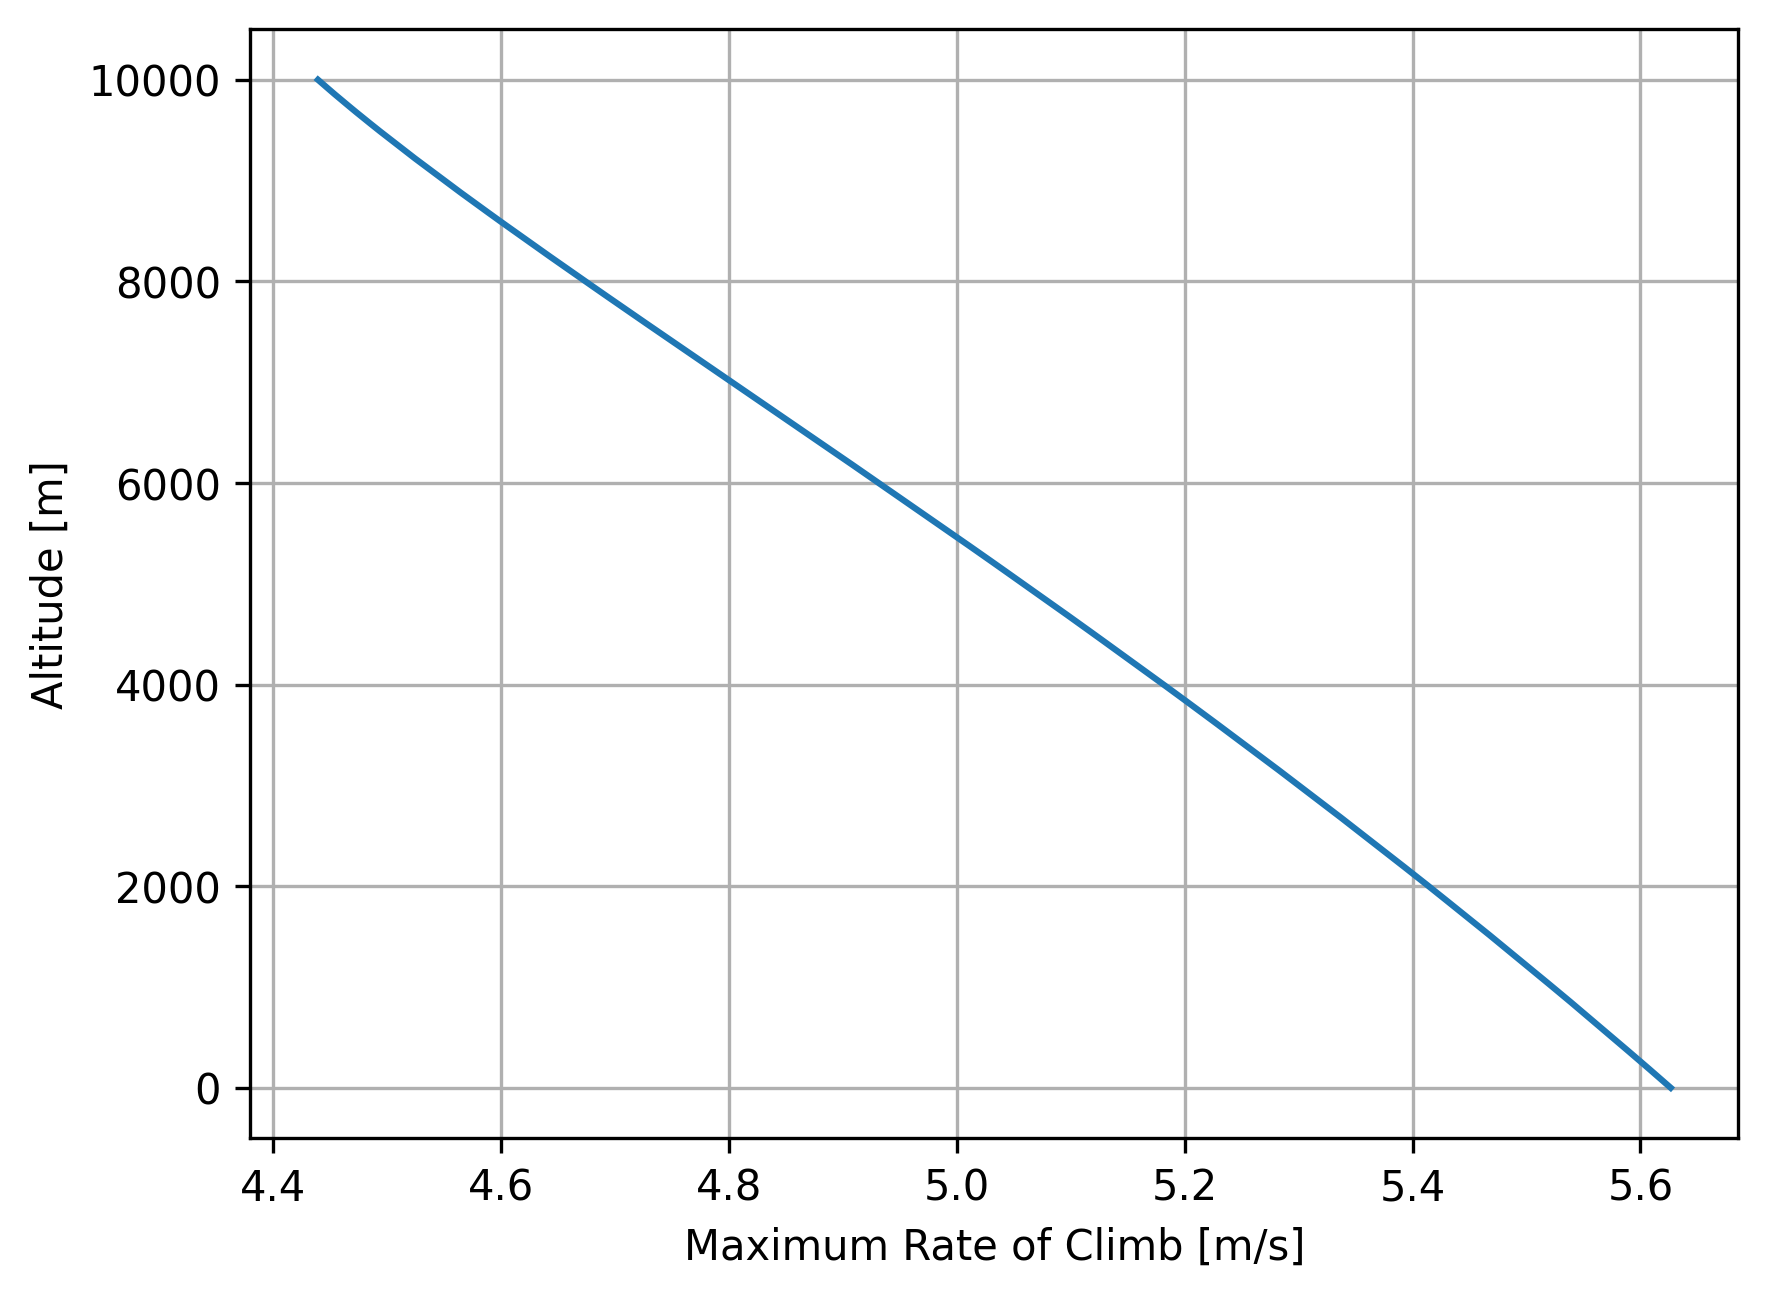
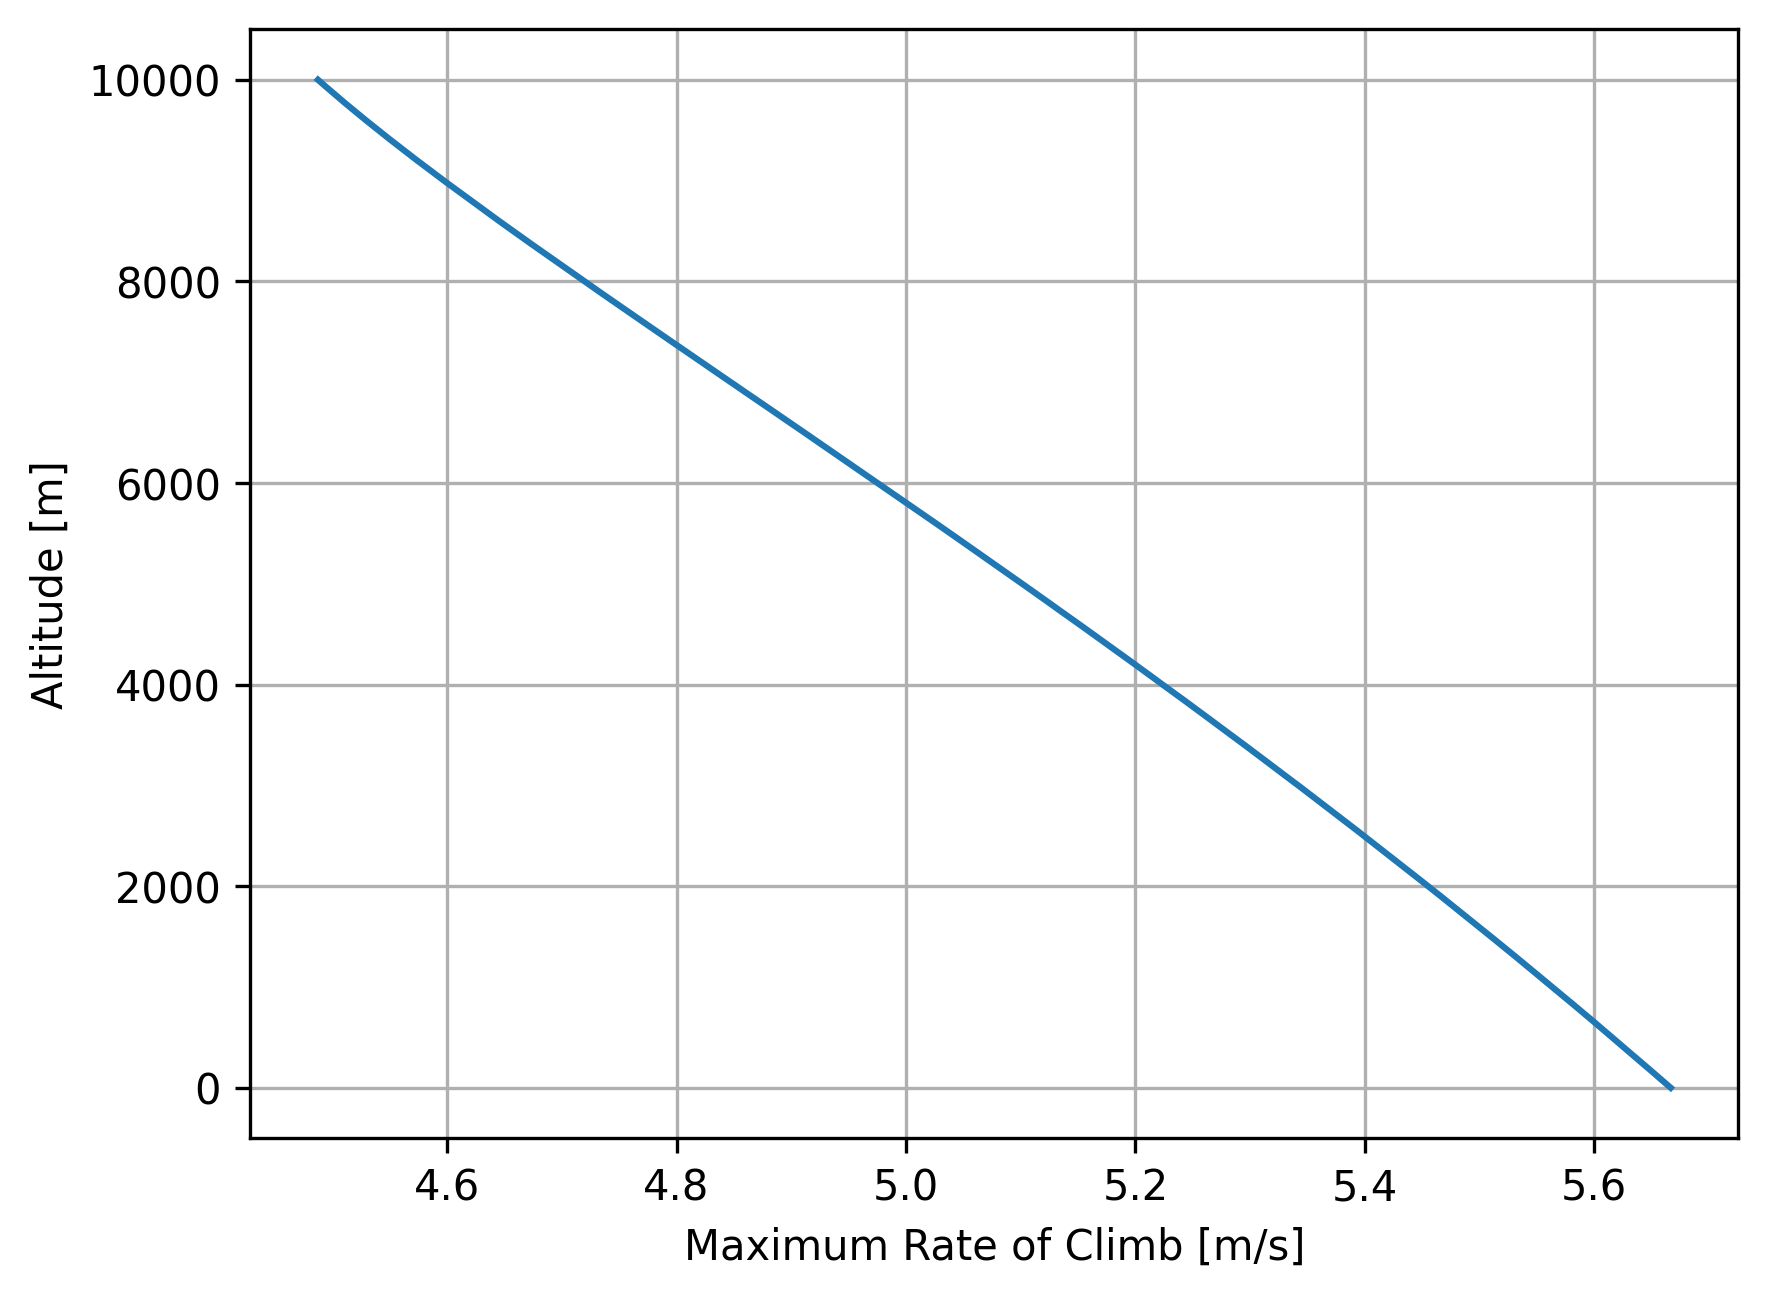
edited performance

diff --git a/performance_diagrams/energy_heigt.py b/performance_diagrams/energy_heigt.py
@@ -10,6 +10,7 @@ from lookups.consts import *
 import matplotlib.pyplot as plt
 from pathlib import Path
 from performance_diagrams import *
+from Propeller_performance import *
 
 
 alts = np.arange(0,3001,50)
@@ -20,23 +21,28 @@ print((alts))
 def stall_speed(mtow, C_l_max, rho, S):
     return math.sqrt((2 * mtow)/(rho * S * C_l_max))
 
-def h_v_plot(alts, mtow,cd0,S,AR,e,P_a,c_l_max):
+def h_v_plot(alts, mtow,cd0,S,AR,e,c_l_max, D_ft, P_bhp):
     ROC = np.zeros((len(alts), 100))
     He = np.zeros((len(alts), 100))
+    
     for i, alt in enumerate(alts):
         rho = Atmosphere(alt, 0).density[0]
-        V_array=np.linspace(stall_speed(mtow,c_l_max, rho, S), 101, 100)
+        V_array= np.linspace(1.3 * stall_speed(mtow, c_l_max, rho, S), 90, 100)
+        T_static, P_available_curve, V_prop = curve(D_ft, rho, P_bhp)
+
         for j, V in enumerate(V_array):
             Cl = mtow / (0.5 * rho * V**2 * S)
             Cd = cd0 + Cl**2/(np.pi*AR*e)
             P_r = 0.5 * rho * V**3 * S * Cd
+            P_a = np.interp(V, V_prop, P_available_curve)
+
             P_a = P_a
             ROC[i,j] = (P_a-P_r)/mtow
             He[i, j] = alt + V**2 / (2 * 9.81)
     
    
     print(np.max(ROC))
-    cs = plt.contour(V_array,alts, ROC,levels=[0,1,2,3,4,5,6,7,7.5,8,8.5])
+    cs = plt.contour(V_array,alts, ROC,levels=[0,1,2,3,4,4.5,5,5.5])
     
     plt.clabel(cs)
     he_cs = plt.contour(V_array, alts, He, levels=np.arange(0, 11000, 500),
@@ -45,7 +51,11 @@ def h_v_plot(alts, mtow,cd0,S,AR,e,P_a,c_l_max):
     plt.clabel(he_cs)
     plt.xlabel("Velocity [m/s]")
     plt.ylabel("Altitude [m]")
-    plt.show()
+    save_path=Path(__file__).parent / "performance_figures/energy_height.png"
+    os.makedirs(os.path.dirname(save_path), exist_ok=True)
+    plt.savefig(save_path, dpi=300, bbox_inches='tight')
+    plt.close()
+    
 
 
     he_flat = He.flatten()
@@ -93,5 +103,5 @@ def h_v_plot(alts, mtow,cd0,S,AR,e,P_a,c_l_max):
     print(f"Minimum time to climb = {time_to_climb:.1f} s")
 
     return time_to_climb
-time_to_climb = h_v_plot(alts,1821*9.81,0.03376,24.23,10.18,0.7521,202000,1.38)   
+time_to_climb = h_v_plot(alts,1821*9.81,0.03376,24.23,10.18,0.7521,1.38,5.66667,135.443)   
 print(time_to_climb)

diff --git a/performance_diagrams/Propeller_performance.py b/performance_diagrams/Propeller_performance.py
@@ -38,7 +38,7 @@ Pmax=160 #[hp] maximum power per engine
 
 graphtorrenbeek=np.sqrt(Vcruise*fpskph*P_to)
 maxdiameter=2*mstofps
-print(graphtorrenbeek)
+# print(graphtorrenbeek)
 
 value=4.1 #find on graph toreenbeedk hp/feet2
 
@@ -105,8 +105,6 @@ def cp_calculation(D_ft, rho_kgm3, P_bhp,RPM):
     rho_slug = rho_kgm3*desnityconversion    # slug/ft³
     n = RPM / 60.0                          # rev/s
     P_fps = P_bhp * 550.0                   # ft·lbf/s
-    print("rho input =", rho_kgm3)
-    print("rho_slug =", rho_slug)
     return P_fps / (rho_slug * n**3 * D_ft**5)
 
 
@@ -189,8 +187,8 @@ def curve( D_ft,rho_kgm3,P_bhp):
 
     # plt.show()
 
-    return T_static,P_useful_w
+    return T_static,P_useful_w, V_ms
 
 D_ft=5.66667
-curve(D_ft,1.02,160)
+# curve(D_ft,1.02,160)
 
